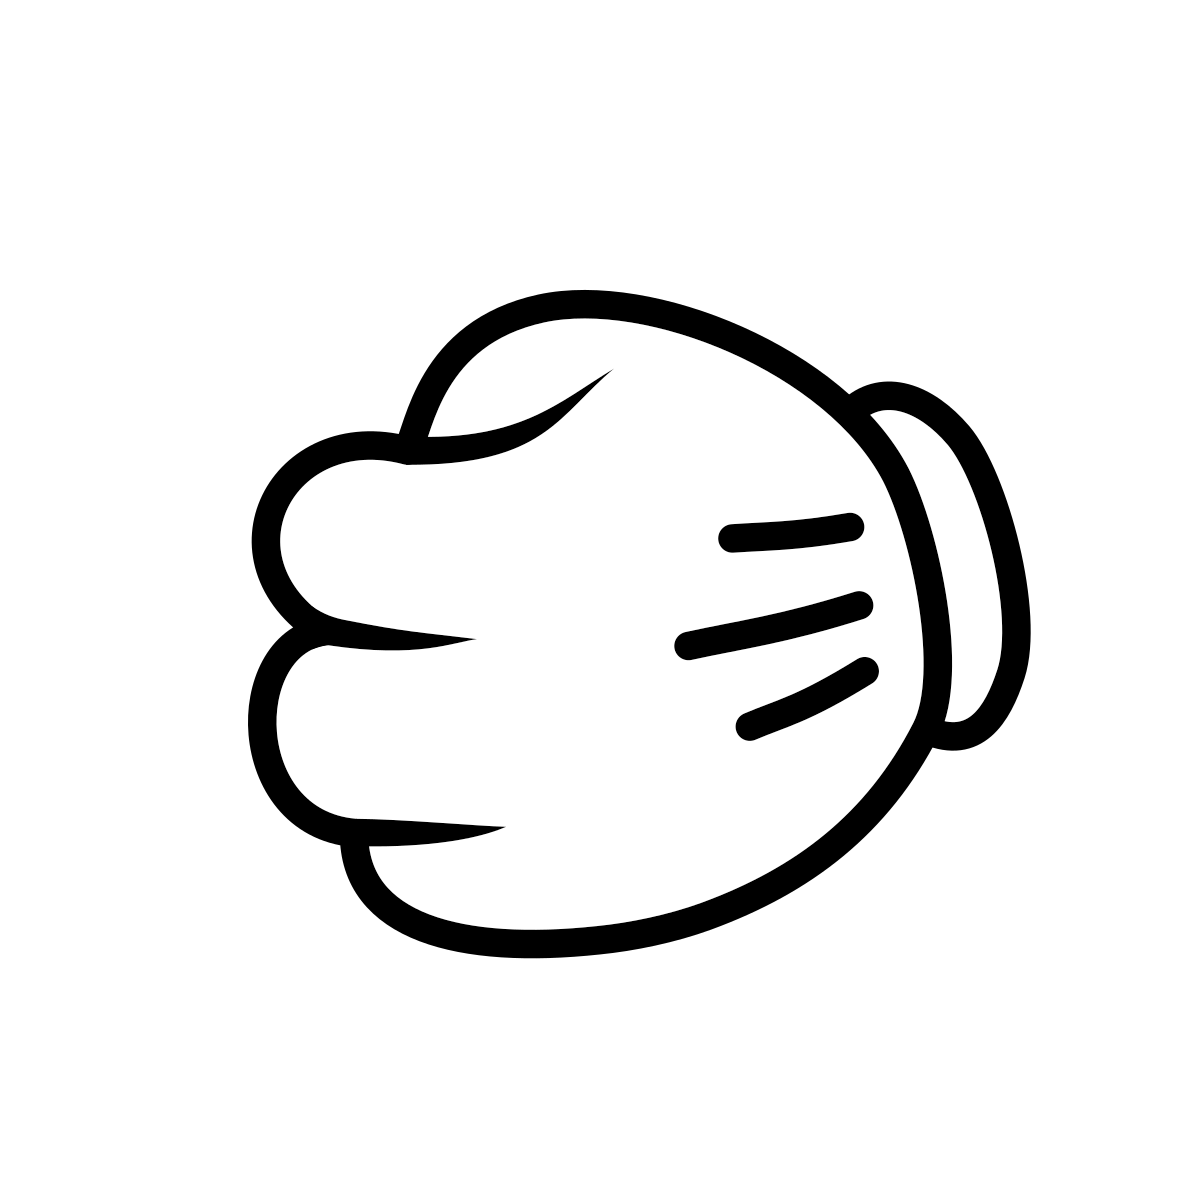
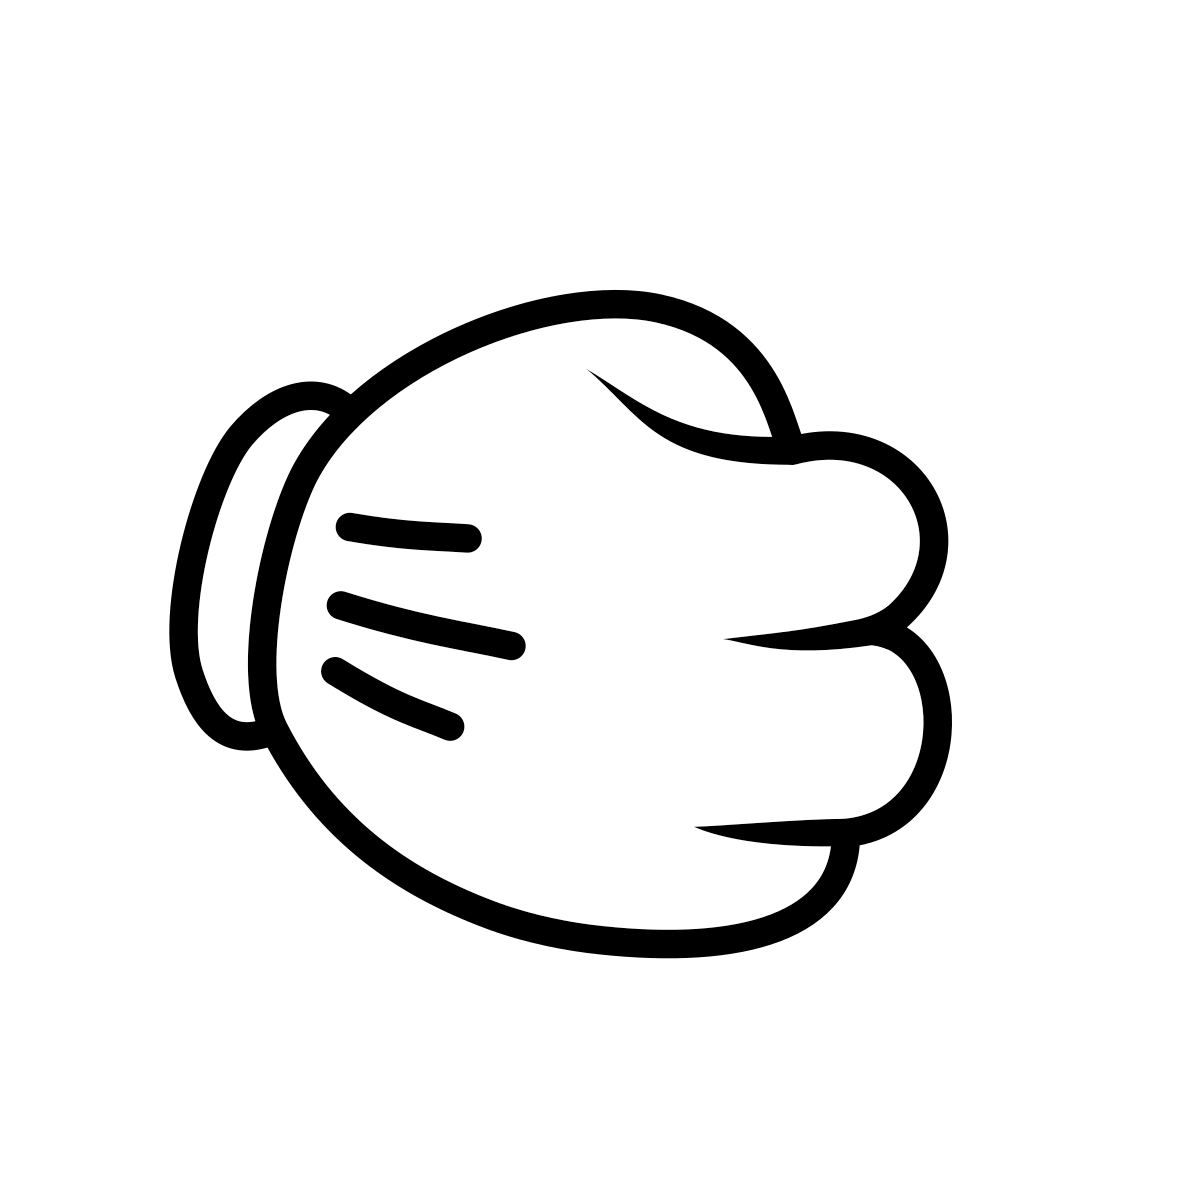
Add images that are rotated each way to choose from, and changed html/js accordingly

diff --git a/script.js b/script.js
@@ -13,34 +13,34 @@ function playRound(playerSelection) {
 	let playerWin = false;
 	if (playerSelect === computerSelect) {
 		playerPic.src = '/images/' + playerSelection + '.png';
-		computerPic.src = '/images/' + computerSelection + '.png';
+		computerPic.src = '/images/' + computerSelection + '_left.png';
 		playerWin = false;
 		return playerWin;
 	} else if (playerSelect === 'ROCK' && computerSelect === 'PAPER') {
 		playerPic.src = '/images/rock.png';
-		computerPic.src = '/images/paper.png';
+		computerPic.src = '/images/paper_left.png';
 		return playerWin;
 	} else if (playerSelect === 'ROCK' && computerSelect === 'SCISSORS') {
 		playerPic.src = '/images/rock.png';
-		computerPic.src = '/images/scissors.png';
+		computerPic.src = '/images/scissors_left.png';
 		playerWin = true;
 		return playerWin;
 	} else if (playerSelect === 'PAPER' && computerSelect === 'SCISSORS') {
 		playerPic.src = '/images/paper.png';
-		computerPic.src = '/images/scissors.png';
+		computerPic.src = '/images/scissors_left.png';
 		return playerWin;
 	} else if (playerSelect === 'PAPER' && computerSelect === 'ROCK') {
 		playerPic.src = '/images/paper.png';
-		computerPic.src = '/images/rock.png';
+		computerPic.src = '/images/rock_left.png';
 		playerWin = true;
 		return playerWin;
 	} else if (playerSelect === 'SCISSORS' && computerSelect === 'ROCK') {
 		playerPic.src = '/images/scissors.png';
-		computerPic.src = '/images/rock.png';
+		computerPic.src = '/images/rock_left.png';
 		return playerWin;
 	} else if (playerSelect === 'SCISSORS' && computerSelect === 'PAPER') {
 		playerPic.src = '/images/scissors.png';
-		computerPic.src = '/images/paper.png';
+		computerPic.src = '/images/paper_left.png';
 		playerWin = true;
 		return playerWin;
 	}

diff --git a/index.html b/index.html
@@ -15,7 +15,7 @@
 
     <div id="hand-choice">
       <img id="player-choice" src="/images/rock.png">
-      <img id="computer-choice" src="/images/rock.png">
+      <img id="computer-choice" src="/images/rock_left.png">
     </div>
 
     <div id="game-log">
@@ -26,7 +26,7 @@
     <div id="game-choices">
       <button id="rock" type="button"><img class="choices" src="/images/rock.png"></button>
       <button id="paper" type="button"><img class="choices" src="/images/paper.png"></button>
-      <button id="scissors" type="button"><img class="choices" src="/images/scissors.png"></button>
+      <button id="scissors" type="button"><img class="choices" src="/images/scissors_left.png"></button>
     </div>
   </div>
   <script src="/script.js"></script>

diff --git a/index.css b/index.css
@@ -22,10 +22,6 @@ body {
 	height: 250px;
 }
 
-#player-choice {
-	transform: rotateY(180deg);
-}
-
 h2,
 h3 {
 	color: #e5e5e5;
